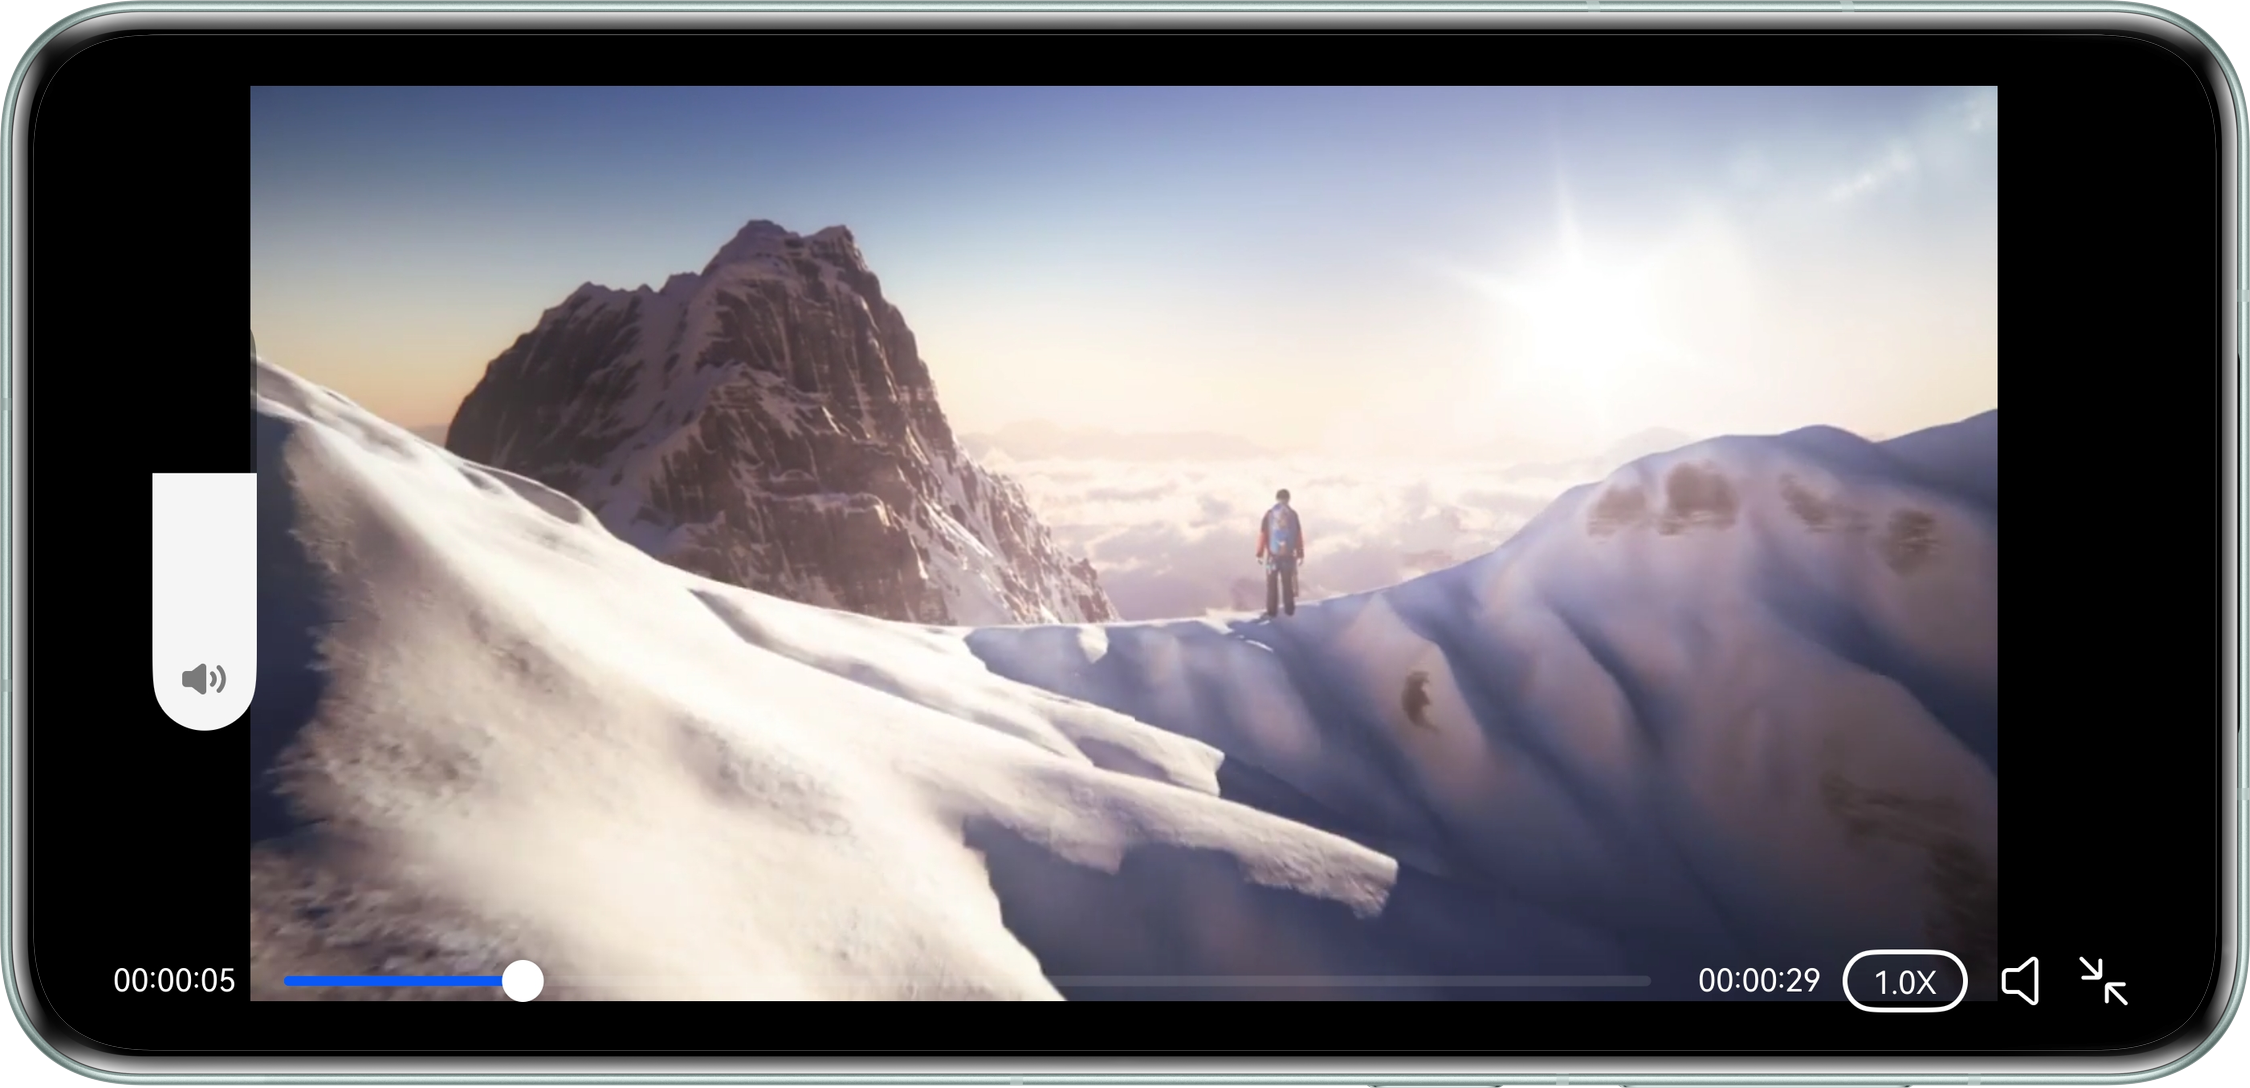
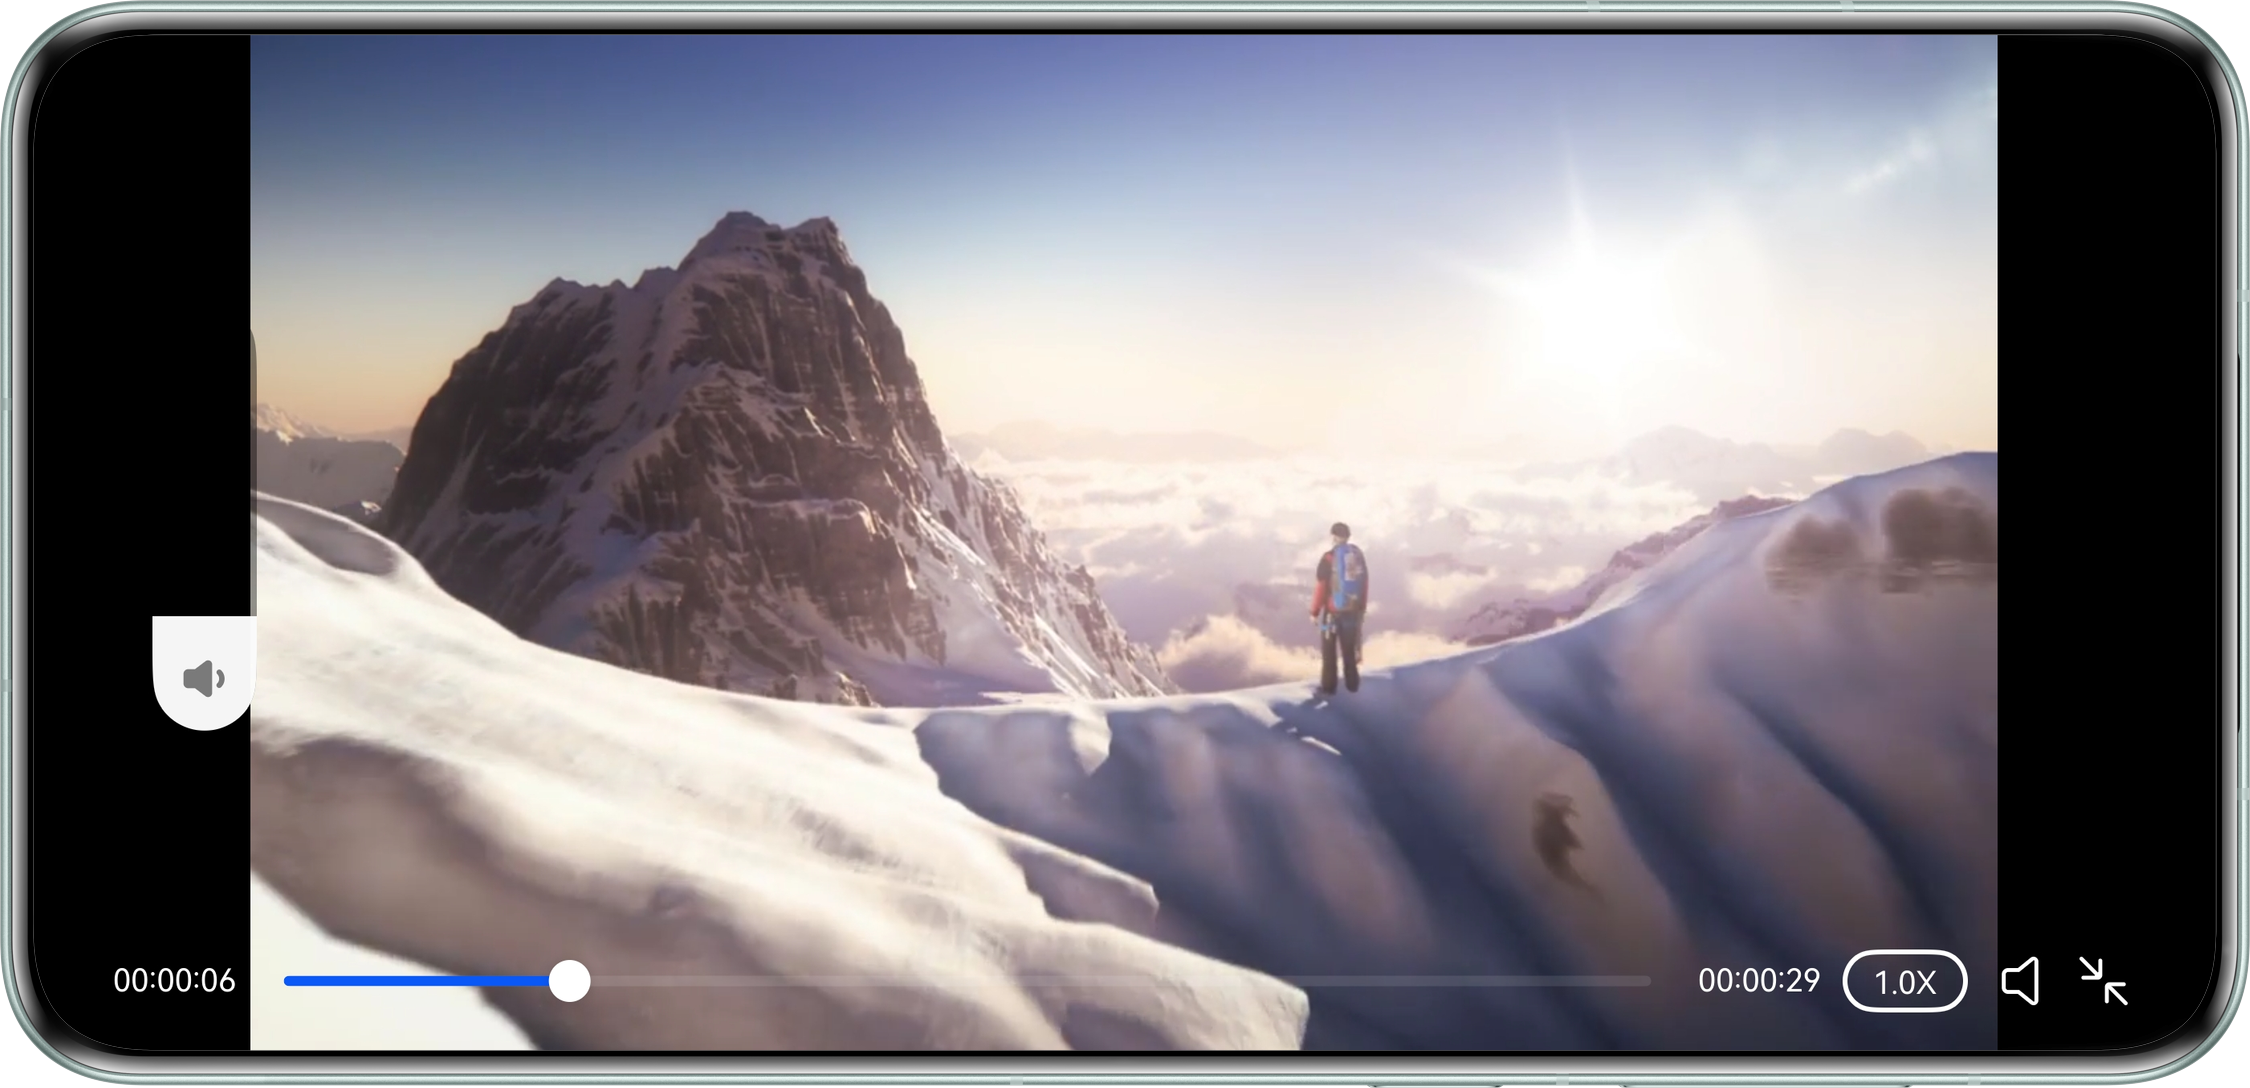
bug&UX问题修改

diff --git a/README.md b/README.md
@@ -30,7 +30,8 @@
 ```
 ├──entry/src/main/ets
 │  ├──constants
-│  │  └──VideoStatus.ets                // Video状态常量
+│  │  ├──CommonConstants.ets            // 常量
+│  │  └──VideoStatus.ets                // Video状态
 │  ├──controller
 │  │  └──AVSessionController.ets        // AVSession控制类
 │  ├──entryability
@@ -50,7 +51,7 @@
 │  └──view
 │     ├──SmallVideo.ets                 // 小窗播放视频页面
 │     ├──VideoList.ets                  // 视频列表页面
-│     └──VolumeAndBrightnessView.ets    // 音量亮度调节组件
+│     └──VolumeView.ets                 // 音量调节
 └──src/main/resources                   // 应用资源目录
 ```
 ## 具体实现
